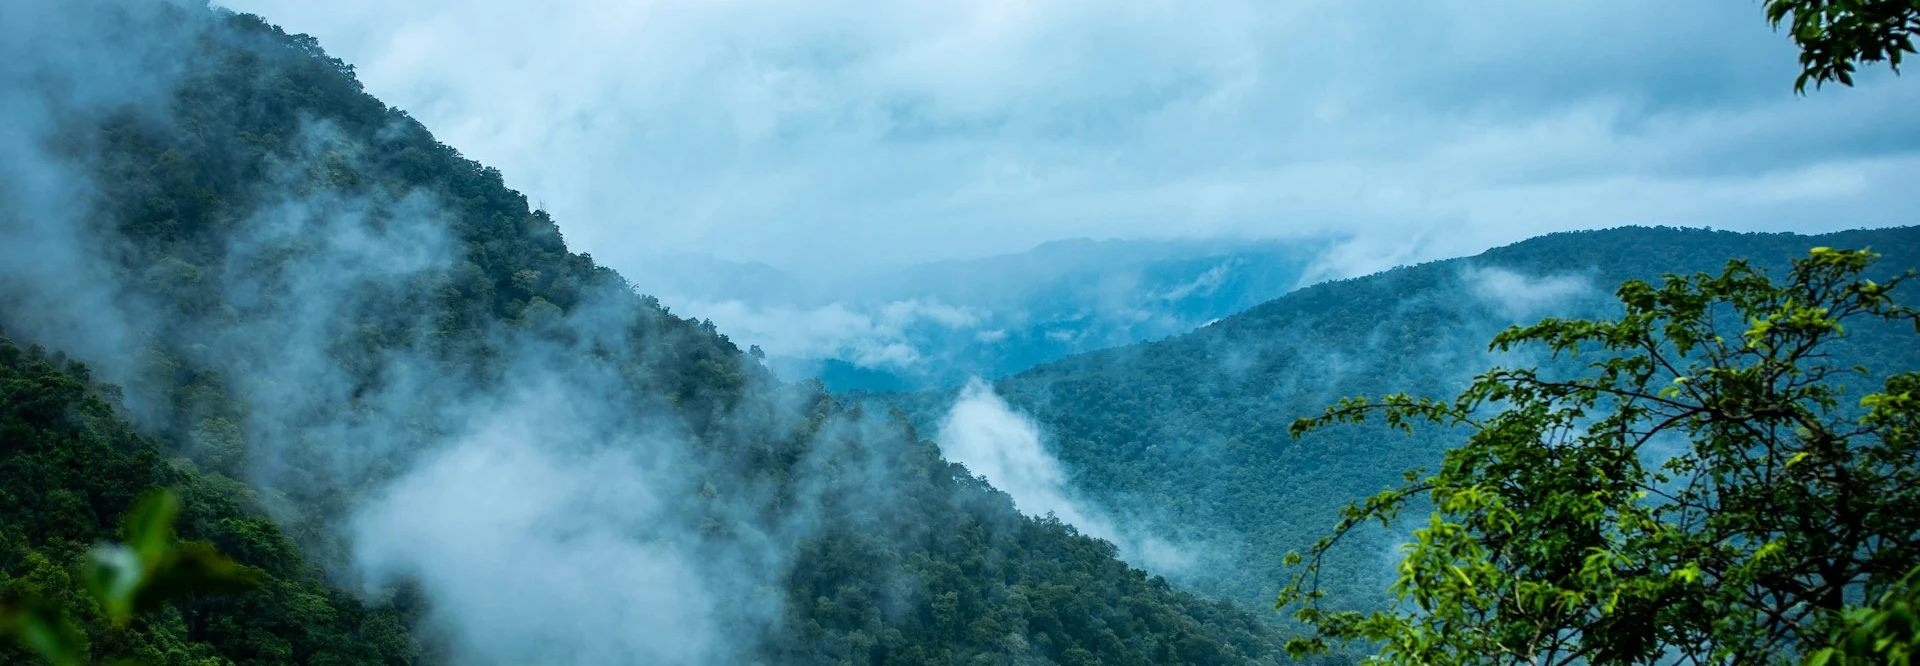
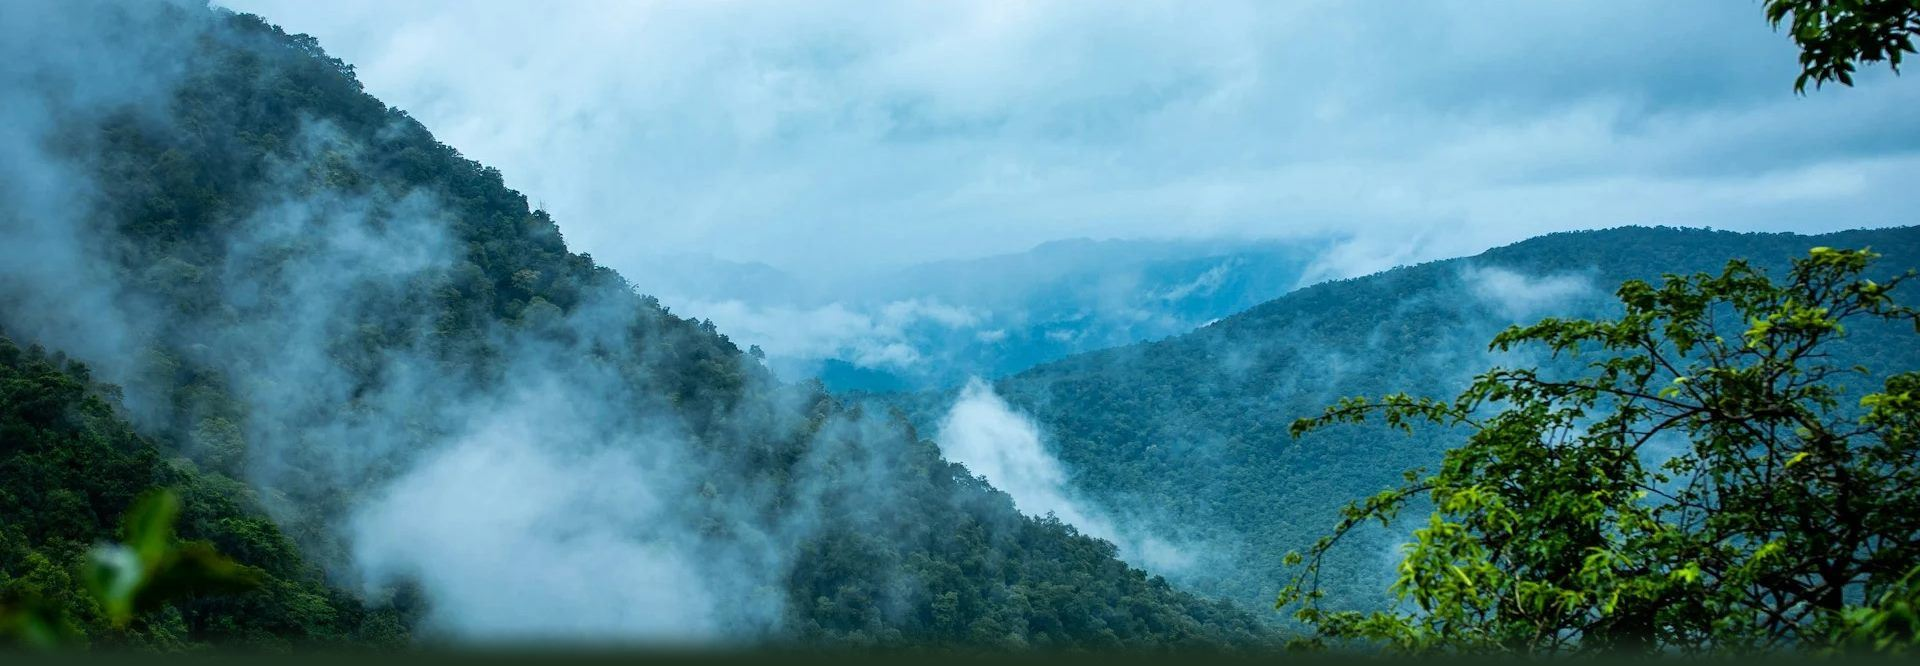
A medida: las fotos buenas, el degradado y el boton entre los filtros
Las fotos salieron del PDF que paso Lautaro, que es mas nuevo que el HTML de la
carpeta: la portada ahora son las llamas y Jujuy entre Copas tiene por fin su
foto de vinedo. Cada foto trae el degradado grabado en el pixel y termina justo
en el color de su region, asi que se van a alto automatico (recortarlas se comia
el final del degradado) y desaparece la linea que habia entre foto y texto: eso
era lo que hacia el corte duro.

En la portada del sitio se suma "Jujuy a tu medida" al lado de Wamani Selecta.
Va con clase propia y no con .filtro, porque esa clase la toma el JS que filtra
el carrusel y esto no filtra nada: lleva a otra pagina.

Y se arregla el ancla: el menu es fijo, asi que al tocar "Experiencias" la
seccion arrancaba tapada y no se leian ni "Elegi tu aventura" ni el titulo. Con
scroll-margin-top queda debajo de la barra, y la linea de "Toca una tarjeta" va
un punto mas chica para que entre todo junto.

El mensaje del WhatsApp de esa pagina pasa a ser el que pidio Lautaro.

Changed region(s): [[0.0, 0.9309, 1.0, 1.0]]

diff --git a/wwwroot/a-medida/index.html b/wwwroot/a-medida/index.html
@@ -76,7 +76,11 @@ h1,h2,h3{font-family:var(--display);font-weight:500;line-height:1.18;text-wrap:b
 }
 
 /* ── portada ── */
-.hero{position:relative;min-height:min(78vh,560px);display:flex;align-items:flex-end;overflow:hidden}
+/* La portada se muestra lo más entera posible: la foto son las llamas y recortarla
+   de más se lleva puesto justo lo que hay que ver. Sólo se recorta cuando la
+   pantalla es muy alta. */
+.hero{position:relative;aspect-ratio:1920/1254;max-height:76vh;min-height:340px;
+  display:flex;align-items:flex-end;overflow:hidden}
 .hero>img{position:absolute;inset:0;width:100%;height:100%;object-fit:cover}
 .hero::after{content:"";position:absolute;inset:0;
   background:linear-gradient(to top,rgba(20,19,20,.93) 4%,rgba(20,19,20,.55) 42%,rgba(20,19,20,.1) 78%)}
@@ -106,9 +110,12 @@ h1,h2,h3{font-family:var(--display);font-weight:500;line-height:1.18;text-wrap:b
 
 /* ── las cuatro regiones ── */
 .region{--c:#444;--a:#aaa}
-.region>img{width:100%;height:clamp(180px,34vw,290px);object-fit:cover}
-.region .filete{height:3px;background:var(--a)}
-.region .cuerpo{background:var(--c);padding-block:32px 34px}
+/* ALTO AUTOMÁTICO, no recortada: cada foto trae el degradado grabado en el pixel
+   y termina justo en el color de su región. Si se le fija un alto y se recorta,
+   se pierde el final del degradado y la foto choca de golpe contra el bloque de
+   color. Por eso tampoco hay ya una línea entre la foto y el texto. */
+.region>img{width:100%;height:auto}
+.region .cuerpo{background:var(--c);padding-block:26px 34px}
 .region .enc{display:flex;align-items:baseline;gap:14px;margin-bottom:6px;flex-wrap:wrap}
 .region h2{font-size:clamp(1.9rem,6vw,2.5rem);color:#fff;text-transform:uppercase;letter-spacing:.02em}
 .region .num{font-family:var(--display);font-size:1.05rem;color:var(--a);font-style:italic}
@@ -127,7 +134,9 @@ h1,h2,h3{font-family:var(--display);font-weight:500;line-height:1.18;text-wrap:b
 .v{--c:#3e3d1a;--a:#c9b03c}
 
 /* ── Jujuy entre Copas ── */
-.copas{background:#3a1730;padding-block:44px 42px}
+.copas{background:#3a1730}
+.copas>img{width:100%;height:auto}
+.copas .cuerpo{padding-block:26px 42px}
 .copas h2{font-size:clamp(1.7rem,5vw,2.2rem);color:#fff;margin:6px 0 10px}
 .copas .frase{font-family:var(--display);font-style:italic;font-size:clamp(1.05rem,3.2vw,1.25rem);
   color:#e3b7d2;margin-bottom:16px}
@@ -206,7 +215,6 @@ h1,h2,h3{font-family:var(--display);font-weight:500;line-height:1.18;text-wrap:b
 
 <section class="region q">
   <img src="img/quebrada.jpg" alt="Cerros de colores de la Quebrada de Humahuaca, Jujuy" loading="lazy">
-  <div class="filete"></div>
   <div class="cuerpo"><div class="wrap">
     <div class="enc"><h2>Quebrada</h2><span class="num">uno</span></div>
     <p class="frase">El Jujuy que ya viste en fotos, y todo lo que las fotos no cuentan.</p>
@@ -218,7 +226,6 @@ h1,h2,h3{font-family:var(--display);font-weight:500;line-height:1.18;text-wrap:b
 
 <section class="region p">
   <img src="img/puna.jpg" alt="Horizonte de la Puna jujeña por encima de los 3.500 metros" loading="lazy">
-  <div class="filete"></div>
   <div class="cuerpo"><div class="wrap">
     <div class="enc"><h2>Puna</h2><span class="num">dos</span></div>
     <p class="frase">El silencio más grande que vas a escuchar en tu vida.</p>
@@ -230,7 +237,6 @@ h1,h2,h3{font-family:var(--display);font-weight:500;line-height:1.18;text-wrap:b
 
 <section class="region y">
   <img src="img/yungas.jpg" alt="Selva de montaña de las Yungas de Jujuy con niebla entre los árboles" loading="lazy">
-  <div class="filete"></div>
   <div class="cuerpo"><div class="wrap">
     <div class="enc"><h2>Yungas</h2><span class="num">tres</span></div>
     <p class="frase">La selva que nadie espera encontrar en Jujuy.</p>
@@ -242,7 +248,6 @@ h1,h2,h3{font-family:var(--display);font-weight:500;line-height:1.18;text-wrap:b
 
 <section class="region v">
   <img src="img/valles.jpg" alt="Bosques y campo abierto de los Valles de Jujuy" loading="lazy">
-  <div class="filete"></div>
   <div class="cuerpo"><div class="wrap">
     <div class="enc"><h2>Valles</h2><span class="num">cuatro</span></div>
     <p class="frase">La región que casi nadie tiene en el plan y a todos les termina gustando.</p>
@@ -252,14 +257,16 @@ h1,h2,h3{font-family:var(--display);font-weight:500;line-height:1.18;text-wrap:b
   </div></div>
 </section>
 
-<section class="copas"><div class="wrap">
+<section class="copas">
+  <img src="img/copas.jpg" alt="Viñedo de altura en Jujuy, con los cerros detrás" loading="lazy">
+  <div class="cuerpo"><div class="wrap">
   <span class="lab">Lo nuevo de Wamani</span>
   <h2>Jujuy entre Copas</h2>
   <p class="frase">Nuestra ruta del vino, en una provincia donde la vid crece donde casi nada crece.</p>
   <p>En Jujuy se hace vino a alturas en las que la mayoría de los cultivos no prosperan. Esa pelea contra el clima, la altura y el sol es la que le da a estos vinos un carácter que no tiene ningún otro vino argentino, y es también lo que convirtió a la provincia en uno de los destinos enológicos que más crece del país.</p>
   <p>Armamos recorridos por bodegas de distintas zonas, con cata, maridaje y charla con quienes hacen el vino. De medio día o de varias jornadas, según cuánto quieras entrar en el tema. <b>Pasamos a buscarte y te dejamos de nuevo en tu alojamiento.</b></p>
   <p>Es la mejor opción si ya conocés Jujuy y querés una entrada distinta, y también si viajás por el vino y no sabías que acá también se hace.</p>
-</div></section>
+</div></div></section>
 
 <section class="wrap selecta">
   <div class="enc"><h2>Wamani Selecta</h2><span class="lab">Experiencias exclusivas</span></div>
@@ -304,7 +311,7 @@ h1,h2,h3{font-family:var(--display);font-weight:500;line-height:1.18;text-wrap:b
    al leer la consulta, se sabe que la persona llegó por esta página y no por la
    portada. Es la única forma de medir si "a medida" trae gente o no. */
 (function(){
-  var msg = encodeURIComponent("¡Hola! Vi la página de Jujuy a tu medida y quiero armar mi viaje.");
+  var msg = encodeURIComponent("¡Hola! Quiero armar mi viaje a Jujuy y me gustaría que me ayuden a planificarlo.");
   ["wpp-arriba","wpp-abajo"].forEach(function(id){
     var a = document.getElementById(id);
     if (a) a.href = "https://wa.me/5491178898516?text=" + msg;

diff --git a/wwwroot/web/index.html b/wwwroot/web/index.html
@@ -281,6 +281,21 @@ section{padding:3.4rem 0}
 }
 .filtro:hover{border-color:var(--dorado)}
 .filtro.activo{background:var(--dorado);color:#1c2a24;border-color:var(--dorado)}
+/* El menú de arriba es fijo. Sin esto, al tocar "Experiencias" el ancla deja el
+   encabezado debajo de la barra y la sección arranca cortada: no se llegan a ver
+   ni "Elegí tu aventura" ni el título. */
+#experiencias{scroll-margin-top:84px}
+#experiencias .encabezado-seccion p{font-size:.94rem}
+/* "Jujuy a tu medida" entre los filtros. NO lleva la clase .filtro a propósito:
+   esa clase la toma el JS que filtra el carrusel, y esto no filtra nada, lleva a
+   otra página. La flecha es la que avisa que se sale de acá. */
+.filtro-link{
+  display:inline-flex;align-items:center;gap:.35rem;text-decoration:none;
+  border:1.5px solid rgba(216,192,150,.55);background:rgba(216,192,150,.07);
+  color:var(--dorado);border-radius:999px;padding:.45rem 1.15rem;
+  font-family:'Quicksand',sans-serif;font-weight:700;font-size:.88rem;transition:.2s;
+}
+.filtro-link:hover{background:var(--dorado);color:#1c2a24;border-color:var(--dorado)}
 
 .carrusel-marco{position:relative}
 .carrusel{
@@ -843,11 +858,12 @@ footer{background:#0f1714;color:#fff;margin-top:3rem;padding:2.4rem 0 1.4rem;bor
       <h2>Excursiones y travesías que <em>pocos conocen</em></h2>
       <p>Tocá una tarjeta y se abre la guía completa: itinerario, qué incluye y qué llevar.</p>
     </div>
-    <div class="filtros" role="tablist">
+    <div class="filtros">
       <button class="filtro activo" data-f="todas">Todas</button>
       <button class="filtro" data-f="dia">Excursiones</button>
       <button class="filtro" data-f="trav">Travesías</button>
       <button class="filtro filtro-selecta" data-f="selecta">✦ Wamani Selecta</button>
+      <a class="filtro-link" href="/a-medida/">Jujuy a tu medida <span aria-hidden="true">→</span></a>
     </div>
     <div class="carrusel-marco">
       <button class="flecha-car izq" aria-label="Anterior" onclick="moverCarrusel(-1)">‹</button>
